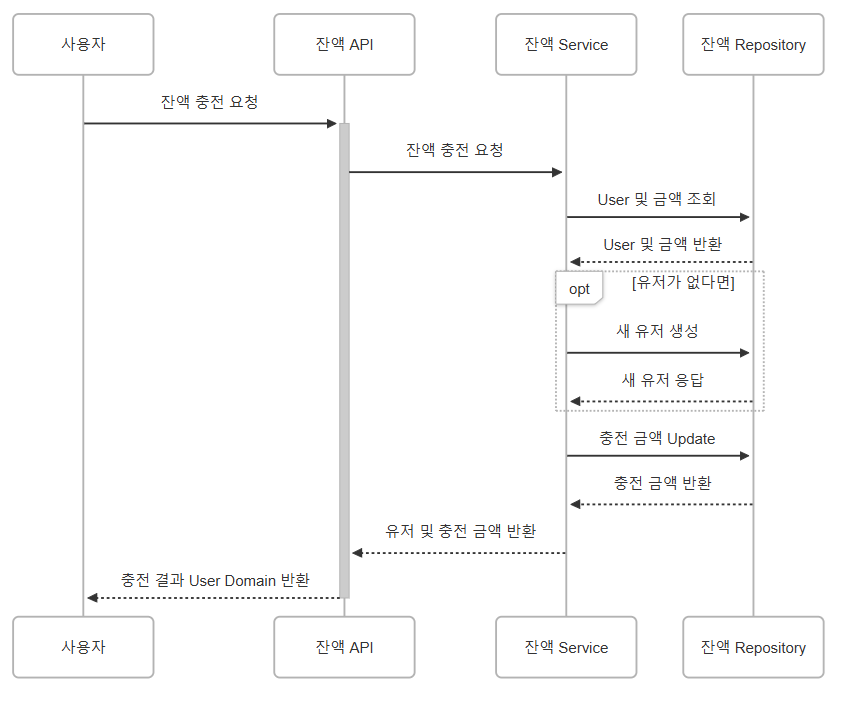
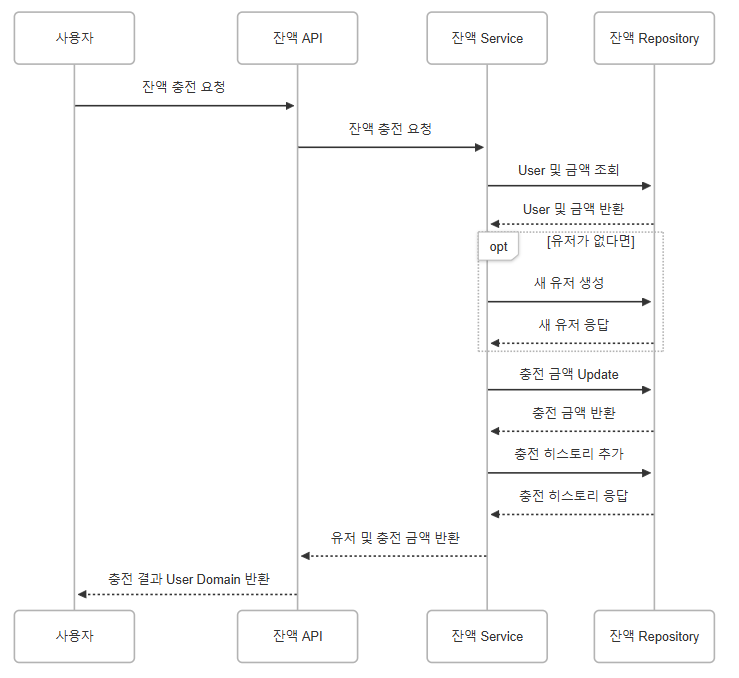
docs: 시퀀스다이어그램 내용 추가

diff --git a/docs/시퀀스다이어그램.md b/docs/시퀀스다이어그램.md
@@ -7,7 +7,7 @@ sequenceDiagram
   participant P2 as 잔액 Service
   participant P5 as 잔액 Repository
 
-  P0 ->>+ P1: 잔액 충전 요청
+  P0 ->> P1: 잔액 충전 요청
   P1 ->> P2: 잔액 충전 요청
   P2 ->> P5: User 및 금액 조회
   P5 -->> P2: User 및 금액 반환
@@ -17,8 +17,10 @@ sequenceDiagram
   end
   P2 ->> P5: 충전 금액 Update
   P5 -->> P2: 충전 금액 반환
+  P2 ->> P5: 충전 히스토리 추가
+  P5 -->> P2: 충전 히스토리 응답
   P2 -->> P1: 유저 및 충전 금액 반환
-  P1 -->>- P0: 충전 결과 User Domain 반환
+  P1 -->> P0: 충전 결과 User Domain 반환
 ```
 
 ## 잔액 조회 시퀀스 다이어그램
@@ -186,7 +188,7 @@ sequenceDiagram
 ```
 sequenceDiagram
   participant P0 as 스케줄러
-  participant P1 as 결제 히스토리
+  participant P1 as 결제
 
   P0 ->> P1: 상위 상품 통계 계산
   P1 ->> P1: 통계 계산 및 저장
